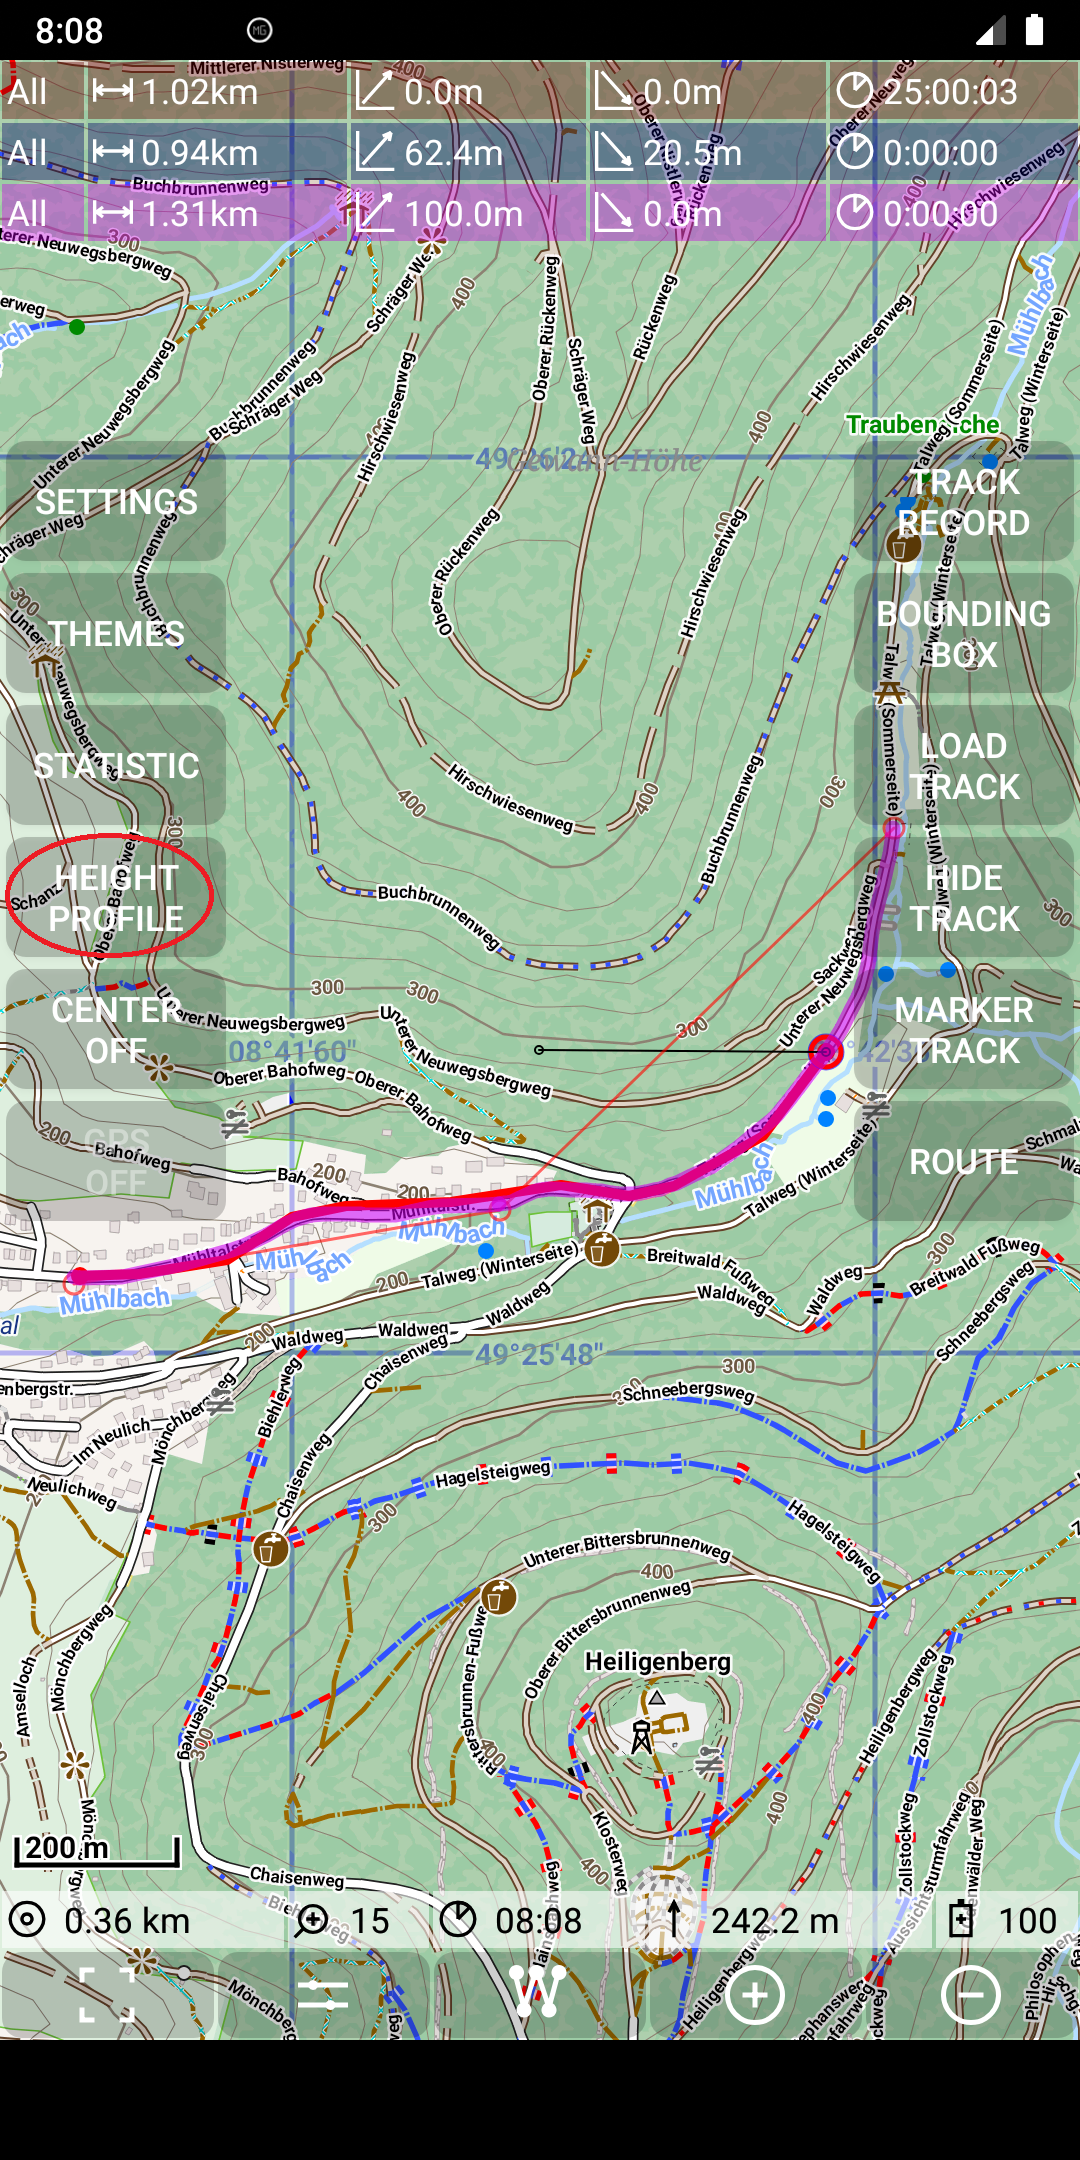
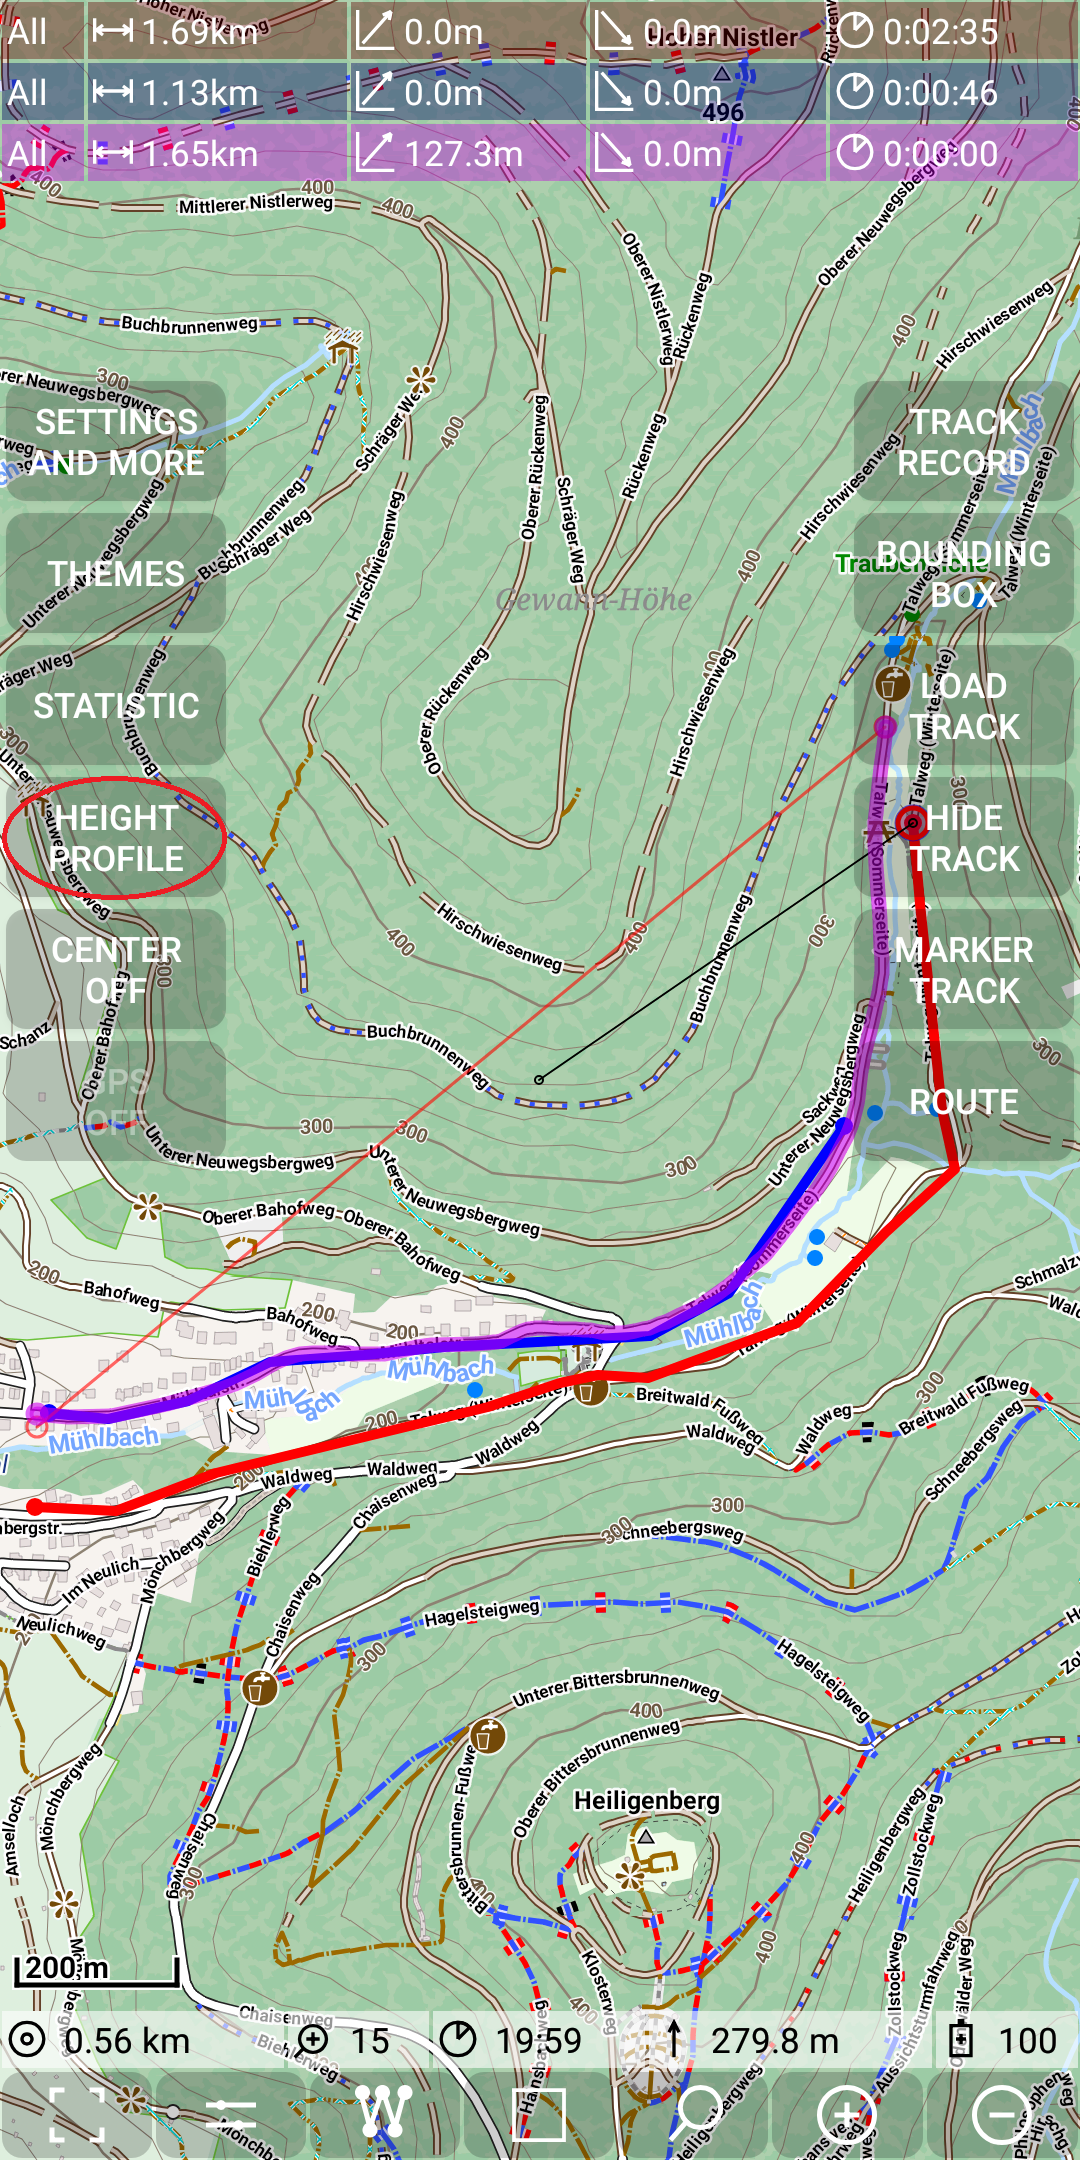
docware

diff --git a/mgmap/src/main/java/mg/mapviewer/util/PersistenceManager.java b/mgmap/src/main/java/mg/mapviewer/util/PersistenceManager.java
@@ -332,7 +332,6 @@ public class PersistenceManager {
         HgtBuf hgtBuf = getHgtBuf(file);
 
         if (hgtBuf != null) { // ok, exists already
-            buf = hgtBuf.buf;
             hgtBufs.remove(hgtBuf);
             hgtBuf.accessNow();
         } else {
@@ -363,6 +362,7 @@ public class PersistenceManager {
             }
         }
         hgtBufs.add(hgtBuf);
+        buf = hgtBuf.buf;
         return buf;
     }
 

diff --git a/docs/Features/FurtherFeatures/HeightProfile/hprof.md b/docs/Features/FurtherFeatures/HeightProfile/hprof.md
@@ -1,12 +1,27 @@
 ## Further Features: height profile
 
 To enter the statistic view use <span style="color:gray">*Menu | Height Profile*</span>.
-The following figure shows an example of the height profile view: 
 
-<img src="./hprof1.png" width="400" />&nbsp;<img src="./hprof2.png" width="400" />&nbsp;
+<img src="./hprof1.png" width="200" />&nbsp;
+
+The following figure shows an example of the height profile view:
+
+<img src="./hprof2.png" width="400" />&nbsp;
 
 As it is visible in the example, the height profile can visualize multiple tracks at the same time.
 For coloring please check the [track definitions](../../track.md). 
 
-As the example shows with the red and the purple line, it's easy to check your position on a route. Same 
-thing is possible with the selected track.
+There is one more option: you can toggle on an ascent profile as an addition to the height profile.
+To do this toggle the setting <span style="color:gray">*Menu | Settings and more | Further Settings | Ascent height profile*</span>.
+
+<img src="./hp1.png" width="200" />&nbsp;
+<img src="./hp2.png" width="200" />&nbsp;
+<img src="./hp3.png" width="200" />&nbsp;
+
+With this setting switched on the route as seen on the first picture provides a height graph
+(thick purple line) and an ascent graph (thin purple line)
+
+<img src="./hp4.png" width="400" />&nbsp;
+<img src="./hp5.png" width="400" />&nbsp;
+
+Be aware of the second scale on the right side, which is valid for the ascent graph.
